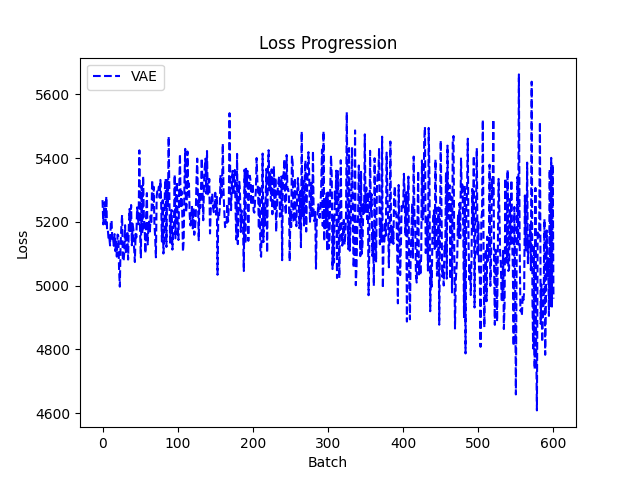
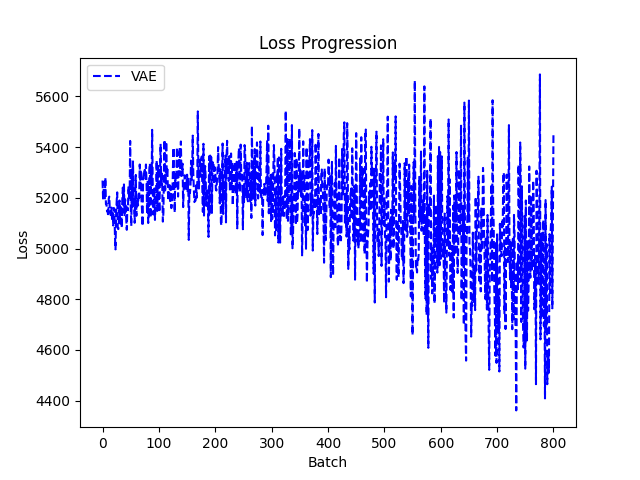
trying bs 16

diff --git a/train_tf_sample.py b/train_tf_sample.py
@@ -21,7 +21,7 @@ parser.add_argument('--name',
                     help='Session name', type=str, default='TF_sample')
 parser.add_argument('--max_name_length',
                     help='Max name generation length', type=int, default=30)
-parser.add_argument('--batch_size', help='batch_size', type=int, default=300)
+parser.add_argument('--batch_size', help='batch_size', type=int, default=16)
 parser.add_argument('--latent', help='latent_size', type=int, default=300)
 parser.add_argument(
     '--rnn_hidd', help='unit_size of rnn cell', type=int, default=500)
@@ -45,7 +45,7 @@ parser.add_argument('--weight_dir', help='save dir',
 parser.add_argument('--save_every',
                     help='Number of iterations before saving', type=int, default=200)
 parser.add_argument('--continue_train',
-                    help='Continue training', type=bool, default=False)
+                    help='Continue training', type=bool, default=True)
 args = parser.parse_args()
 
 

diff --git a/test_tf.py b/test_tf.py
@@ -8,9 +8,9 @@ import json
 
 parser = argparse.ArgumentParser()
 parser.add_argument('--name',
-                    help='Session name', type=str, default='TF_sample')
+                    help='Session name', type=str, default='no_SOS')
 parser.add_argument('--test_name',
-                    help='Person name to test', type=str, default='Jinsoo')
+                    help='Person name to test', type=str, default='Michael')
 parser.add_argument('--eps', help='error from sampling',
                     type=float, default=0)
 parser.add_argument('--num_samples', help='Number of samples to take',

diff --git a/model/MolecularVAE_TF.py b/model/MolecularVAE_TF.py
@@ -5,7 +5,7 @@ from utilities import DEVICE
 
 
 def vae_loss(x_decoded_mean, x, z_mean, z_log_sd):
-    bce_loss = F.binary_cross_entropy(x_decoded_mean, x, reduction='sum')
+    bce_loss = F.binary_cross_entropy(x_decoded_mean, x, reduction='average')
     kl_loss = -0.5 * torch.sum(1 + z_log_sd - z_mean.pow(2) - z_log_sd.exp())
     return bce_loss + kl_loss
 
